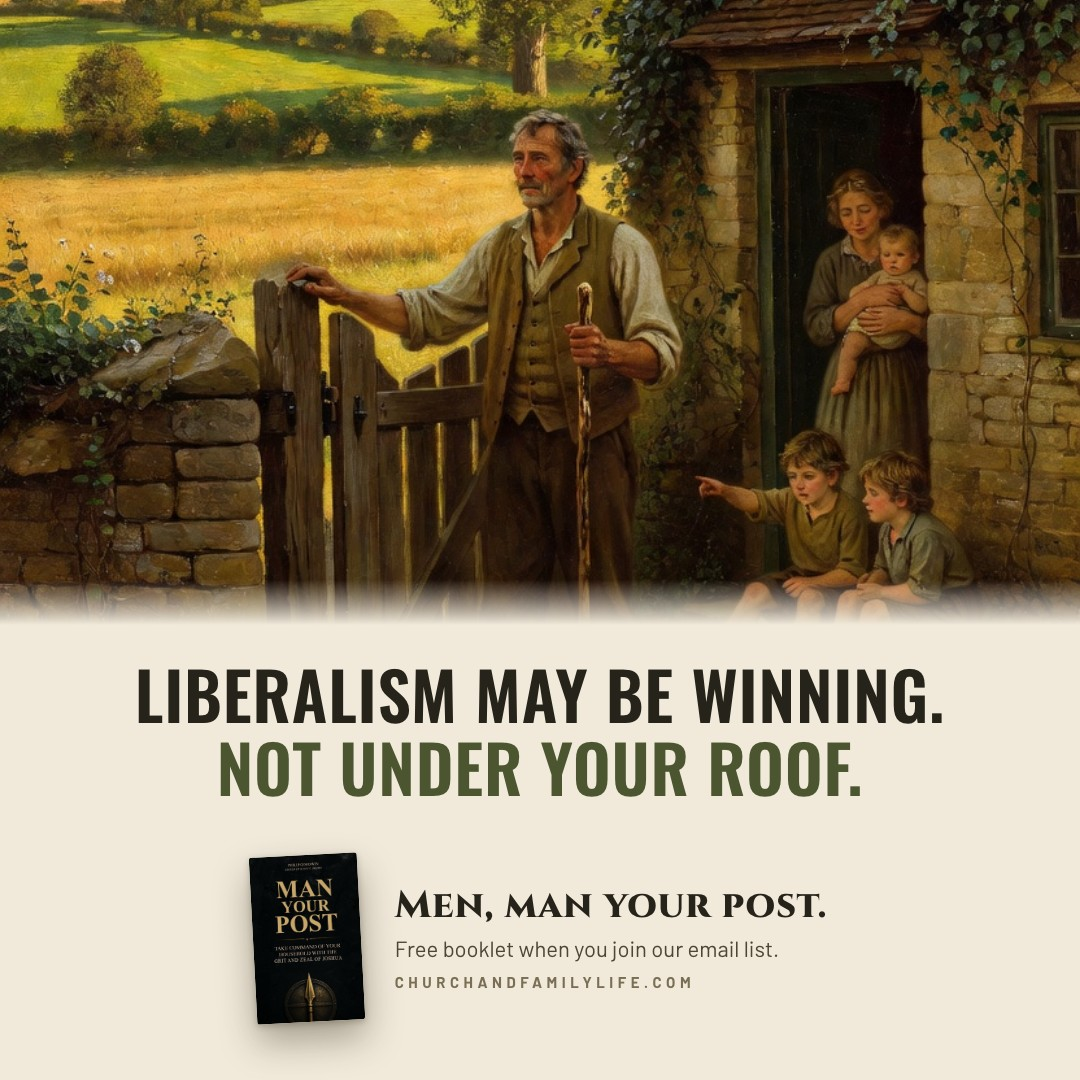
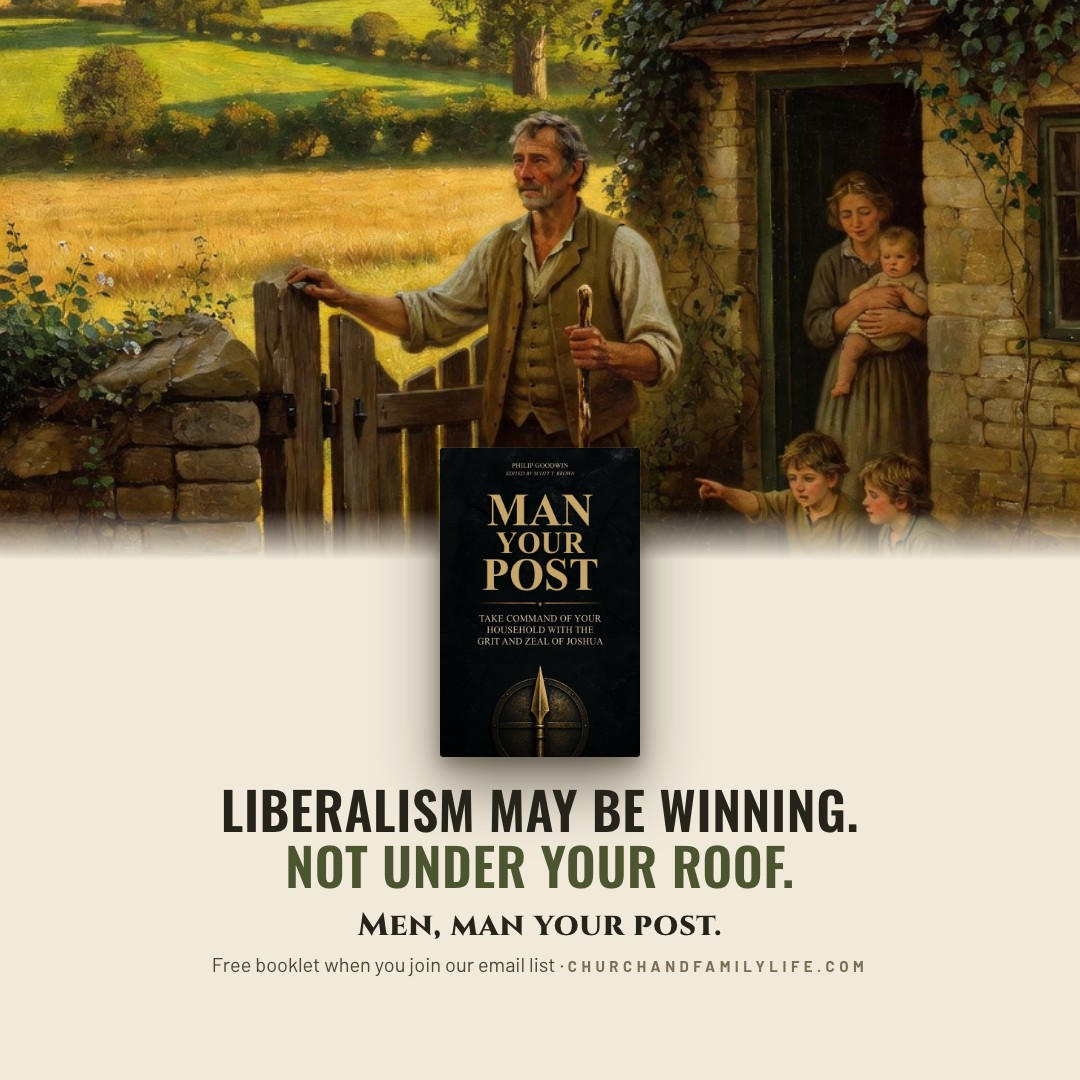
v5: big-book popup panel, centered booklet on social cards

diff --git a/popup/myp-popup.js b/popup/myp-popup.js
@@ -1,5 +1,5 @@
 /*!
- * Church & Family Life — "Man Your Post" free-booklet email popup  (v2, 2026-11-04: email only, painting panel, parchment + moss palette)
+ * Church & Family Life — "Man Your Post" free-booklet email popup  (v2, 2026-11-04: email only, big-book panel, parchment + moss palette)
  * Drop-in, no dependencies. Renders inside a Shadow DOM so site CSS can't bleed in.
  *
  * Install (Exo):
@@ -29,7 +29,6 @@
     productUrl: "https://churchandfamilylife.com/products/6ac6570d68c8897ef2d80484",
     coverUrl: "https://cfl-mango.s3.us-east-1.amazonaws.com/assets/products/6ac6570d68c8897ef2d80484/image.jpg",
     privacyUrl: "https://churchandfamilylife.com/privacy",
-    artUrl: "https://blueboxdoctor.github.io/cfl-man-your-post-review/art/painting-main.jpg", // Exo: host on CFL S3 before launch
     offerLine: "Free digital copy by email, plus occasional Church & Family Life updates. Unsubscribe anytime.",
     demo: false
   }, window.MYP_POPUP || {});
@@ -64,10 +63,10 @@
 .dlg{position:relative;width:100%;max-width:780px;display:grid;grid-template-columns:320px 1fr;background:#f1eadb;color:#2a261c;box-shadow:0 30px 80px rgba(20,16,8,.45);border-radius:6px;overflow:hidden;transform:translateY(14px) scale(.985);transition:transform .45s cubic-bezier(.2,.8,.2,1);font-family:'Barlow','Helvetica Neue',Arial,sans-serif}\
 .bd.on .dlg{transform:none}\
 .dlg:focus{outline:none}\
-.art{position:relative;min-height:430px;background:#3a3220 center 72%/cover no-repeat;overflow:hidden}\
-.art:after{content:'';position:absolute;inset:auto 0 0 0;height:46%;background:linear-gradient(180deg,rgba(28,26,17,0),rgba(28,26,17,.78))}\
-.cover{position:absolute;z-index:1;left:26px;bottom:24px;width:118px;aspect-ratio:1080/1669;object-fit:cover;border-radius:2px;box-shadow:0 16px 30px rgba(0,0,0,.55),0 0 0 1px rgba(241,234,219,.25);transform:rotate(-3deg)}\
-.tag{position:absolute;z-index:1;left:160px;bottom:30px;font:700 12px/1 'Barlow',Arial,sans-serif;letter-spacing:.22em;text-transform:uppercase;color:#f1eadb;border:1px solid rgba(241,234,219,.6);padding:7px 10px;border-radius:3px}\
+.art{position:relative;min-height:440px;background:radial-gradient(90% 70% at 50% 42%,#56603a 0%,#3f4728 55%,#2f3520 100%);display:flex;align-items:center;justify-content:center;padding:34px 30px;overflow:hidden}\
+\
+.cover{position:relative;z-index:1;width:100%;max-width:250px;aspect-ratio:1080/1669;object-fit:cover;border-radius:3px;box-shadow:0 28px 50px rgba(10,10,4,.6),0 6px 14px rgba(10,10,4,.4),0 0 0 1px rgba(241,234,219,.12)}\
+.tag{position:absolute;z-index:2;left:50%;bottom:16px;transform:translateX(-50%);white-space:nowrap;font:700 12px/1 'Barlow',Arial,sans-serif;letter-spacing:.22em;text-transform:uppercase;color:#f1eadb;border:1px solid rgba(241,234,219,.6);padding:7px 10px;border-radius:3px}\
 .body{padding:46px 44px 30px;display:flex;flex-direction:column;justify-content:center}\
 .eyebrow{font-size:12px;font-weight:700;letter-spacing:.24em;text-transform:uppercase;color:#7a6431;margin:0 0 16px;display:flex;align-items:center;gap:10px}\
 .eyebrow:after{content:'';flex:1;height:1px;background:linear-gradient(90deg,rgba(122,100,49,.5),transparent)}\
@@ -102,10 +101,10 @@ button.go:disabled{opacity:.6;cursor:wait;transform:none}\
 @media (max-width:720px){\
  .bd{align-items:flex-end;padding:0}\
  .dlg{grid-template-columns:1fr;max-width:none;border-radius:16px 16px 0 0;max-height:92vh;overflow:auto;transform:translateY(40px)}\
- .art{min-height:0;height:190px;background-position:center 58%}\
- .art:after{height:60%}\
- .cover{width:64px;left:20px;bottom:16px}\
- .tag{left:98px;bottom:20px;font-size:11px}\
+ .art{min-height:0;padding:22px 20px 38px}\
+\
+ .cover{max-width:132px}\
+ .tag{bottom:12px;font-size:11px}\
  .x{background:rgba(241,234,219,.85);color:#25231a}\
  .body{padding:20px 20px 18px}\
  .eyebrow{display:none}\
@@ -122,7 +121,7 @@ button.go:disabled{opacity:.6;cursor:wait;transform:none}\
 <div class="bd" part="backdrop">\
  <div class="dlg" tabindex="-1" role="dialog" aria-modal="true" aria-labelledby="myp-h" aria-describedby="myp-d">\
   <button class="x" type="button" aria-label="Close">&times;</button>\
-  <div class="art" role="img" aria-label="A father at his cottage gate, his family in the doorway"><img class="cover" alt="Man Your Post by Philip Goodwin, edited by Scott T. Brown" src=""><span class="tag">Free booklet</span></div>\
+  <div class="art"><img class="cover" alt="Man Your Post by Philip Goodwin, edited by Scott T. Brown" src=""><span class="tag">Free booklet</span></div>\
   <div class="body">\
    <div class="form-area">\
     <p class="eyebrow">For husbands &amp; fathers</p>\
@@ -166,7 +165,6 @@ button.go:disabled{opacity:.6;cursor:wait;transform:none}\
     root.innerHTML = "<style>" + CSS + "</style>" + HTML;
     bd = root.querySelector(".bd"); dlg = root.querySelector(".dlg");
     root.querySelector(".cover").src = CFG.coverUrl;
-    root.querySelector(".art").style.backgroundImage = "url(\"" + CFG.artUrl + "\")";
     root.querySelector(".offer").textContent = CFG.offerLine;
     root.querySelector(".priv").href = CFG.privacyUrl;
     root.querySelector(".shop").href = CFG.productUrl + (CFG.productUrl.indexOf("?") < 0 ? "?" : "&") + "utm_source=site&utm_medium=popup&utm_campaign=man-your-post";
@@ -286,7 +284,7 @@ button.go:disabled{opacity:.6;cursor:wait;transform:none}\
   function boot() {
     var s = store.get(); store.set({ views: (s.views || 0) + 1 });
     if (forced() && !excluded()) { open("link"); return; }
-    if (eligible()) { (new Image()).src = CFG.coverUrl; (new Image()).src = CFG.artUrl; arm(); } // warm the cover so it's there when the popup opens
+    if (eligible()) { (new Image()).src = CFG.coverUrl; arm(); } // warm the cover so it's there when the popup opens
   }
 
   // Links anywhere on the site: <a href="#man-your-post"> or [data-myp-open] opens it without a reload.

diff --git a/index.html b/index.html
@@ -29,12 +29,13 @@ ul.n li{margin:6px 0;color:#cfc5ad}code{background:#1d1a14;padding:1px 6px;borde
 
 <section><div class="w"><h2>1 · Website popup</h2>
 <p class="sub">Opens after 9 seconds or 45% scroll (or exit intent on desktop). It stays quiet for 7 days after a close, never shows again after sign-up, and skips checkout/cart/donate pages. Any link with <code>?free=man-your-post</code> or <code>#man-your-post</code> opens it right away, and that's where the social posts point. On phones it's a bottom sheet.</p>
+<p class="sub"><b>v5 (1:00pm):</b> the painting is out of the popup. The left panel is now just the booklet, big, on moss green (on phones it fills the top of the sheet). Copy and email-only form unchanged from v4. v4 is saved in <a href="assets/v4-popup/popup-desktop.png">assets/v4-popup/</a>.</p>
 <p class="sub"><b>v4 (12:45pm):</b> new palette pulled from the painting (parchment, moss green, umber) instead of black and gold. The painting now fills the left panel with the booklet over it. About half the words are gone: shorter headline, one line from Goodwin, and email only (no first-name field). The v3 black-and-gold popup is saved in <a href="assets/v3-popup/popup-desktop.png">assets/v3-popup/</a>.</p>
 <div class="shots"><div><img src="assets/popup-desktop.png" alt="Popup on desktop"><div class="cap">Desktop, over the live homepage</div><img style="margin-top:18px" src="assets/popup-desktop-success.png" alt="Popup success state"><div class="cap">After sign-up</div></div>
 <div><img src="assets/popup-mobile.png" alt="Popup on mobile"><div class="cap">iPhone (390px)</div><img style="margin-top:18px" src="assets/popup-mobile-success.png" alt="Mobile success"><div class="cap">After sign-up</div></div></div>
 </div></section>
 
-<section><div class="w"><h2>2 · Social artwork</h2><p class="sub"><b>v4 (12:45pm):</b> the black-and-gold panel is now parchment with moss-green and umber taken from the painting. The headline is cut to "Liberalism may be winning. Not under your roof." The v3 versions are saved in <a href="social/v3-oswald-black/feed-1080x1350.jpg">social/v3-oswald-black/</a>.</p><p class="sub">v3 (9:35am): headlines are now set in Oswald, a bold condensed modern face. The sign-off line "Men, man your post." uses Cinzel, which matches the cover's carved serif title, and the body text is Barlow. The popup uses the same type. The v2 versions in Libre Caslon are saved in <a href="social/v2-caslon/feed-1080x1350.jpg">social/v2-caslon/</a>.</p><p class="sub">v2 (9:20am): background changed to a 19th-century realist oil painting, the kind Michael Foster uses on his X articles. The painting runs unshaded at the top, and the black-and-gold panel with the booklet sits below it. Click any image for the full-size file. The first dark versions are still in <a href="social/v1-dark/feed-1080x1350.jpg">social/v1-dark/</a>.</p>
+<section><div class="w"><h2>2 · Social artwork</h2><p class="sub"><b>v5 (1:00pm):</b> same painting, but the booklet is now big and centered, set where the painting meets the cream panel so the father and family stay in view. v4 (small corner booklet) is saved in <a href="social/v4-cover-small/feed-1080x1350.jpg">social/v4-cover-small/</a>.</p><p class="sub"><b>v4 (12:45pm):</b> the black-and-gold panel is now parchment with moss-green and umber taken from the painting. The headline is cut to "Liberalism may be winning. Not under your roof." The v3 versions are saved in <a href="social/v3-oswald-black/feed-1080x1350.jpg">social/v3-oswald-black/</a>.</p><p class="sub">v3 (9:35am): headlines are now set in Oswald, a bold condensed modern face. The sign-off line "Men, man your post." uses Cinzel, which matches the cover's carved serif title, and the body text is Barlow. The popup uses the same type. The v2 versions in Libre Caslon are saved in <a href="social/v2-caslon/feed-1080x1350.jpg">social/v2-caslon/</a>.</p><p class="sub">v2 (9:20am): background changed to a 19th-century realist oil painting, the kind Michael Foster uses on his X articles. The painting runs unshaded at the top, and the black-and-gold panel with the booklet sits below it. Click any image for the full-size file. The first dark versions are still in <a href="social/v1-dark/feed-1080x1350.jpg">social/v1-dark/</a>.</p>
 <div class="grid"><div><a href="social/feed-1080x1350.jpg" target="_blank"><img src="social/feed-1080x1350.jpg" alt="Feed · 1080×1350" loading="lazy"></a><div class="tag" style="margin-top:8px">Feed · 1080×1350</div><div class="cap">Instagram / Facebook portrait</div></div><div><a href="social/square-1080.jpg" target="_blank"><img src="social/square-1080.jpg" alt="Square · 1080×1080" loading="lazy"></a><div class="tag" style="margin-top:8px">Square · 1080×1080</div><div class="cap">Facebook, IG grid, LinkedIn</div></div><div><a href="social/story-1080x1920.jpg" target="_blank"><img src="social/story-1080x1920.jpg" alt="Story · 1080×1920" loading="lazy"></a><div class="tag" style="margin-top:8px">Story · 1080×1920</div><div class="cap">IG / FB Story</div></div><div><a href="social/wide-1600x900.jpg" target="_blank"><img src="social/wide-1600x900.jpg" alt="Wide · 1600×900" loading="lazy"></a><div class="tag" style="margin-top:8px">Wide · 1600×900</div><div class="cap">X, Facebook link post, email header</div></div><div><a href="social/quote-1080x1350.jpg" target="_blank"><img src="social/quote-1080x1350.jpg" alt="Quote card · 1080×1350" loading="lazy"></a><div class="tag" style="margin-top:8px">Quote card · 1080×1350</div><div class="cap">Post 2 / carousel slide 2</div></div></div>
 </div></section>
 

diff --git a/COPY.md b/COPY.md
@@ -2,7 +2,8 @@
 
 Review site: https://blueboxdoctor.github.io/cfl-man-your-post-review/
 
-## Popup copy (website), v4
+## Popup copy (website), v4 copy / v5 layout
+- Layout (v5): left panel = the booklet cover, large, on moss green; no painting in the popup.
 - Eyebrow (desktop only): FOR HUSBANDS & FATHERS
 - Headline: **Liberalism may be winning. Not under your roof.**
 - Line 2: **Men, fortify your household. Man your post.**
